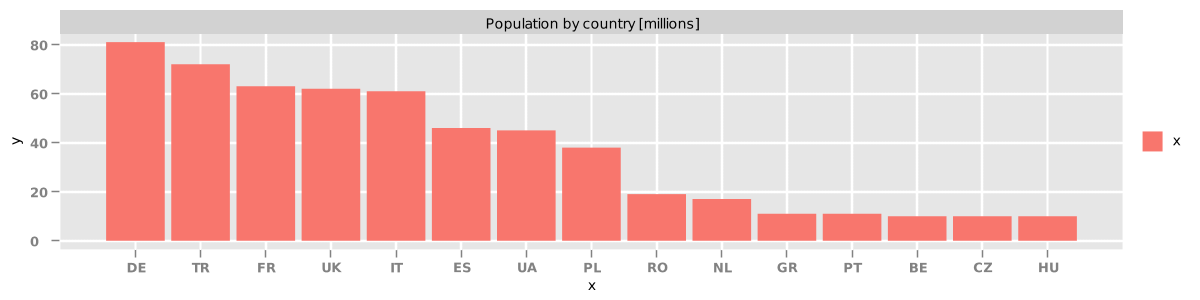
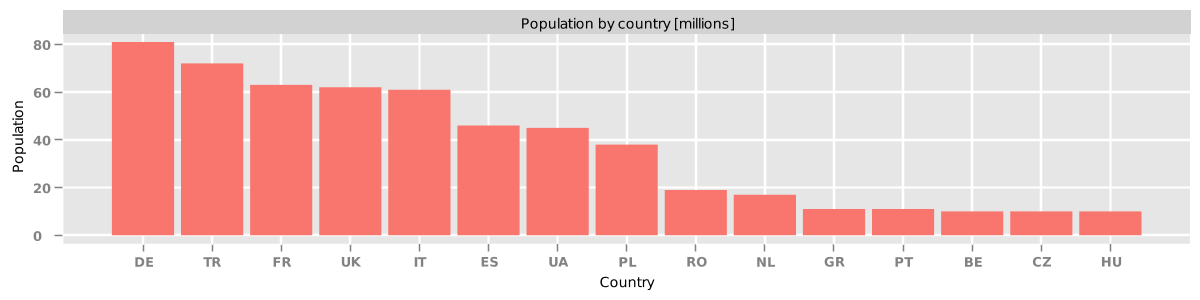
Change series name and legend visibility
resolves #22

Changed region(s): [[0.0, 0.03, 1.0, 0.96], [0.4008, 0.06, 0.6167, 0.12]]

diff --git a/README.md b/README.md
@@ -58,9 +58,9 @@ data.plotBar()
 case class Person(name: String, age: Int)
 
 val data = Seq(
-    Person("p1", 20),
-    Person("p2", 30),
-    Person("p3", 40)
+    Person("p1", 45),
+    Person("p2", 85),
+    Person("p3", 78)
 )
 
 data.plotBar(_.age)
@@ -89,7 +89,13 @@ val populationByCountry = Seq(
     ("HU", 10)
   )
 
-  populationByCountry.plotBar()
+populationByCountry
+    .buildPlot()
+    .bar(_._1, _._2)
+    .titles("Population by country [millions]", "Country", "Population")
+    .size(1200, 300)
+    .legendVisible(false)
+    .display()
 ```
 
 ![](images/bar_chart_with_string.png)
@@ -284,6 +290,30 @@ data
     .size(1600, 1200)
     .display()
 ```
+
+## Change series name
+
+```scala
+Seq(1.0, 4.0, 9.0)
+    .buildPlot()
+    .bar()
+    .seriesName("custom name")
+    .display()
+```
+
+![](images/bar_chart_custom_series_name.png)
+
+## Hide legend
+
+```scala
+Seq(1.0, 4.0, 9.0)
+    .buildPlot()
+    .bar()
+    .legendVisible(false)
+    .display()
+```
+
+![](images/bar_chart_hide_legend.png)
 
 # Contact
 
